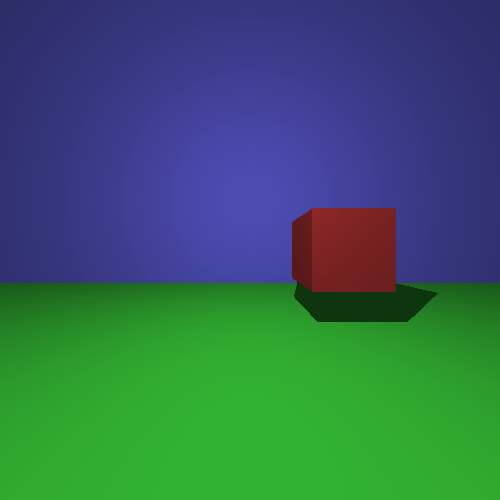
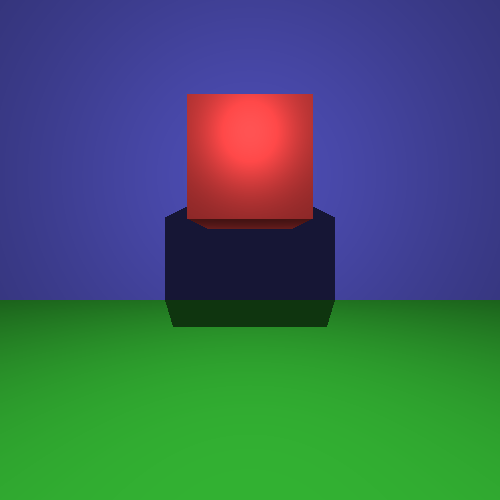
fix: MANO

Changed region(s): [[0.0, 0.18, 1.0, 0.66]]

diff --git a/main.cpp b/main.cpp
@@ -17,7 +17,7 @@ using namespace std;
 
 int main() {
     Vector O(0, 0, 0); 
-    Viewport viewport(60, 60, -20);
+    Viewport viewport(60, 60, -30);
     Canva canva(500, 500, Color::convert_rgb(100, 100, 100)); 
 
     Scene scene(O, viewport, canva);
@@ -27,7 +27,7 @@ int main() {
     // scene.add_object(new Sphere(Vector(0, 0, -100), r, Color(0.7, 0.2, 0.2), Color(0.7, 0.2, 0.2), Color(0.7, 0.2, 0.2), 10)); 
     // scene.add_object(new Cylinder(Vector(0, 0, -100), Vector(-1/sqrt(3), 1/sqrt(3), -1/sqrt(3)), r/3, 3 * r, Color(0.2, 0.3, 0.8), Color(0.2, 0.3, 0.8), Color(0.2, 0.3, 0.8), 10, true, true)); 
     // scene.add_object(new Cone(Vector(-69.282, 69.282, -169.282), Vector(-1/sqrt(3.0), 1/sqrt(3.0), -1/sqrt(3.0)), 1.5*r, r/3, Color(0.8, 0.3, 0.2), Color(0.8, 0.3, 0.2), Color(0.8, 0.3, 0.2), 10, false));
-    scene.add_object(new Cube(Vector(50, 0, -100), 40, Color(0.7, 0.2, 0.2), Color(0.7, 0.2, 0.2), Color(0.7, 0.2, 0.2), 10));
+    scene.add_object(new Cube(Vector(0, 30, -100), 40, Color(0.7, 0.2, 0.2), Color(0.7, 0.2, 0.2), Color(0.7, 0.2, 0.2), 10));
 
     scene.add_object(new Plan(Vector(0, -40, 0), Vector(0, 1, 0), Color(0.2, 0.7, 0.2), Color(0.2, 0.7, 0.2), Color(0.0, 0.0, 0.0), 1));
     scene.add_object(new Plan(Vector(0, 0, -200), Vector(0, 0, 1), Color(0.3, 0.3, 0.7), Color(0.3, 0.3, 0.7), Color(0.0, 0.0, 0.0), 1));
